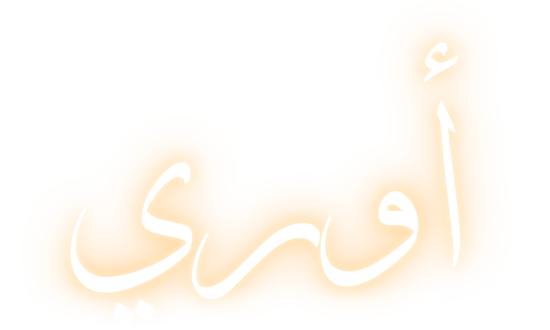
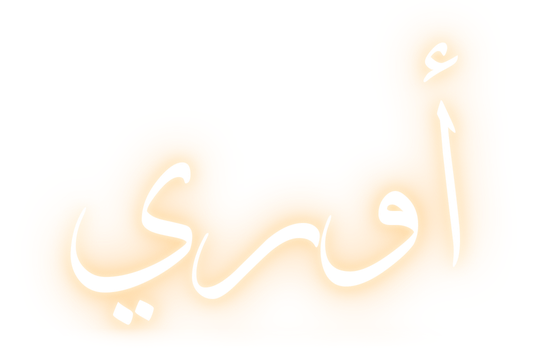
Ori pocket word: show ya dots, raise slightly

diff --git a/index.html b/index.html
@@ -1258,7 +1258,7 @@ body[data-world="sr2"]{--w-bg:#0d1d27;--w-ink:#eef8ff;--w-mute:#a9c7d6;--w-nav-b
 .vt-pk.ori .vt-cd{border-color:#bfe3ff66}
 .vt-pk.ori .vt-c1 img.bg{object-position:50% 62%}
 .vt-lin.L .vt-pk:nth-child(2){right:3%!important;top:26%!important;width:min(220px,23%)!important}
-.vt-pk.ori .vt-lgo{image-rendering:auto;left:50%;width:auto;height:calc((100% - var(--pt,20%))*.7);max-width:80%;object-fit:contain;top:calc(var(--pt,20%) + (100% - var(--pt,20%))*.5);transform:translate(-50%,-50%);filter:drop-shadow(0 0 6px #ffb86a88) drop-shadow(0 0 16px #ff9a3c66);animation:oriWord 3.6s ease-in-out infinite alternate}
+.vt-pk.ori .vt-lgo{image-rendering:auto;left:50%;width:auto;height:calc((100% - var(--pt,20%))*.7);max-width:80%;object-fit:contain;top:calc(var(--pt,20%) + (100% - var(--pt,20%))*.45);transform:translate(-50%,-50%);filter:drop-shadow(0 0 6px #ffb86a88) drop-shadow(0 0 16px #ff9a3c66);animation:oriWord 3.6s ease-in-out infinite alternate}
 .vt-pk.ori:hover .vt-lgo,.vt-pk.ori:focus-visible .vt-lgo{filter:drop-shadow(0 0 8px #ffd29aaa) drop-shadow(0 0 22px #ffa84fa0)}
 @keyframes oriWord{from{filter:drop-shadow(0 0 5px #ffb86a77) drop-shadow(0 0 12px #ff9a3c44) brightness(1)}to{filter:drop-shadow(0 0 9px #ffd29acc) drop-shadow(0 0 24px #ffa84f88) brightness(1.12)}}
 /* حواف زجاجية ناعمة لكل بطاقات الجيوب (كل الألعاب): استدارة كبيرة، حد شفاف، لمعة زجاج */
